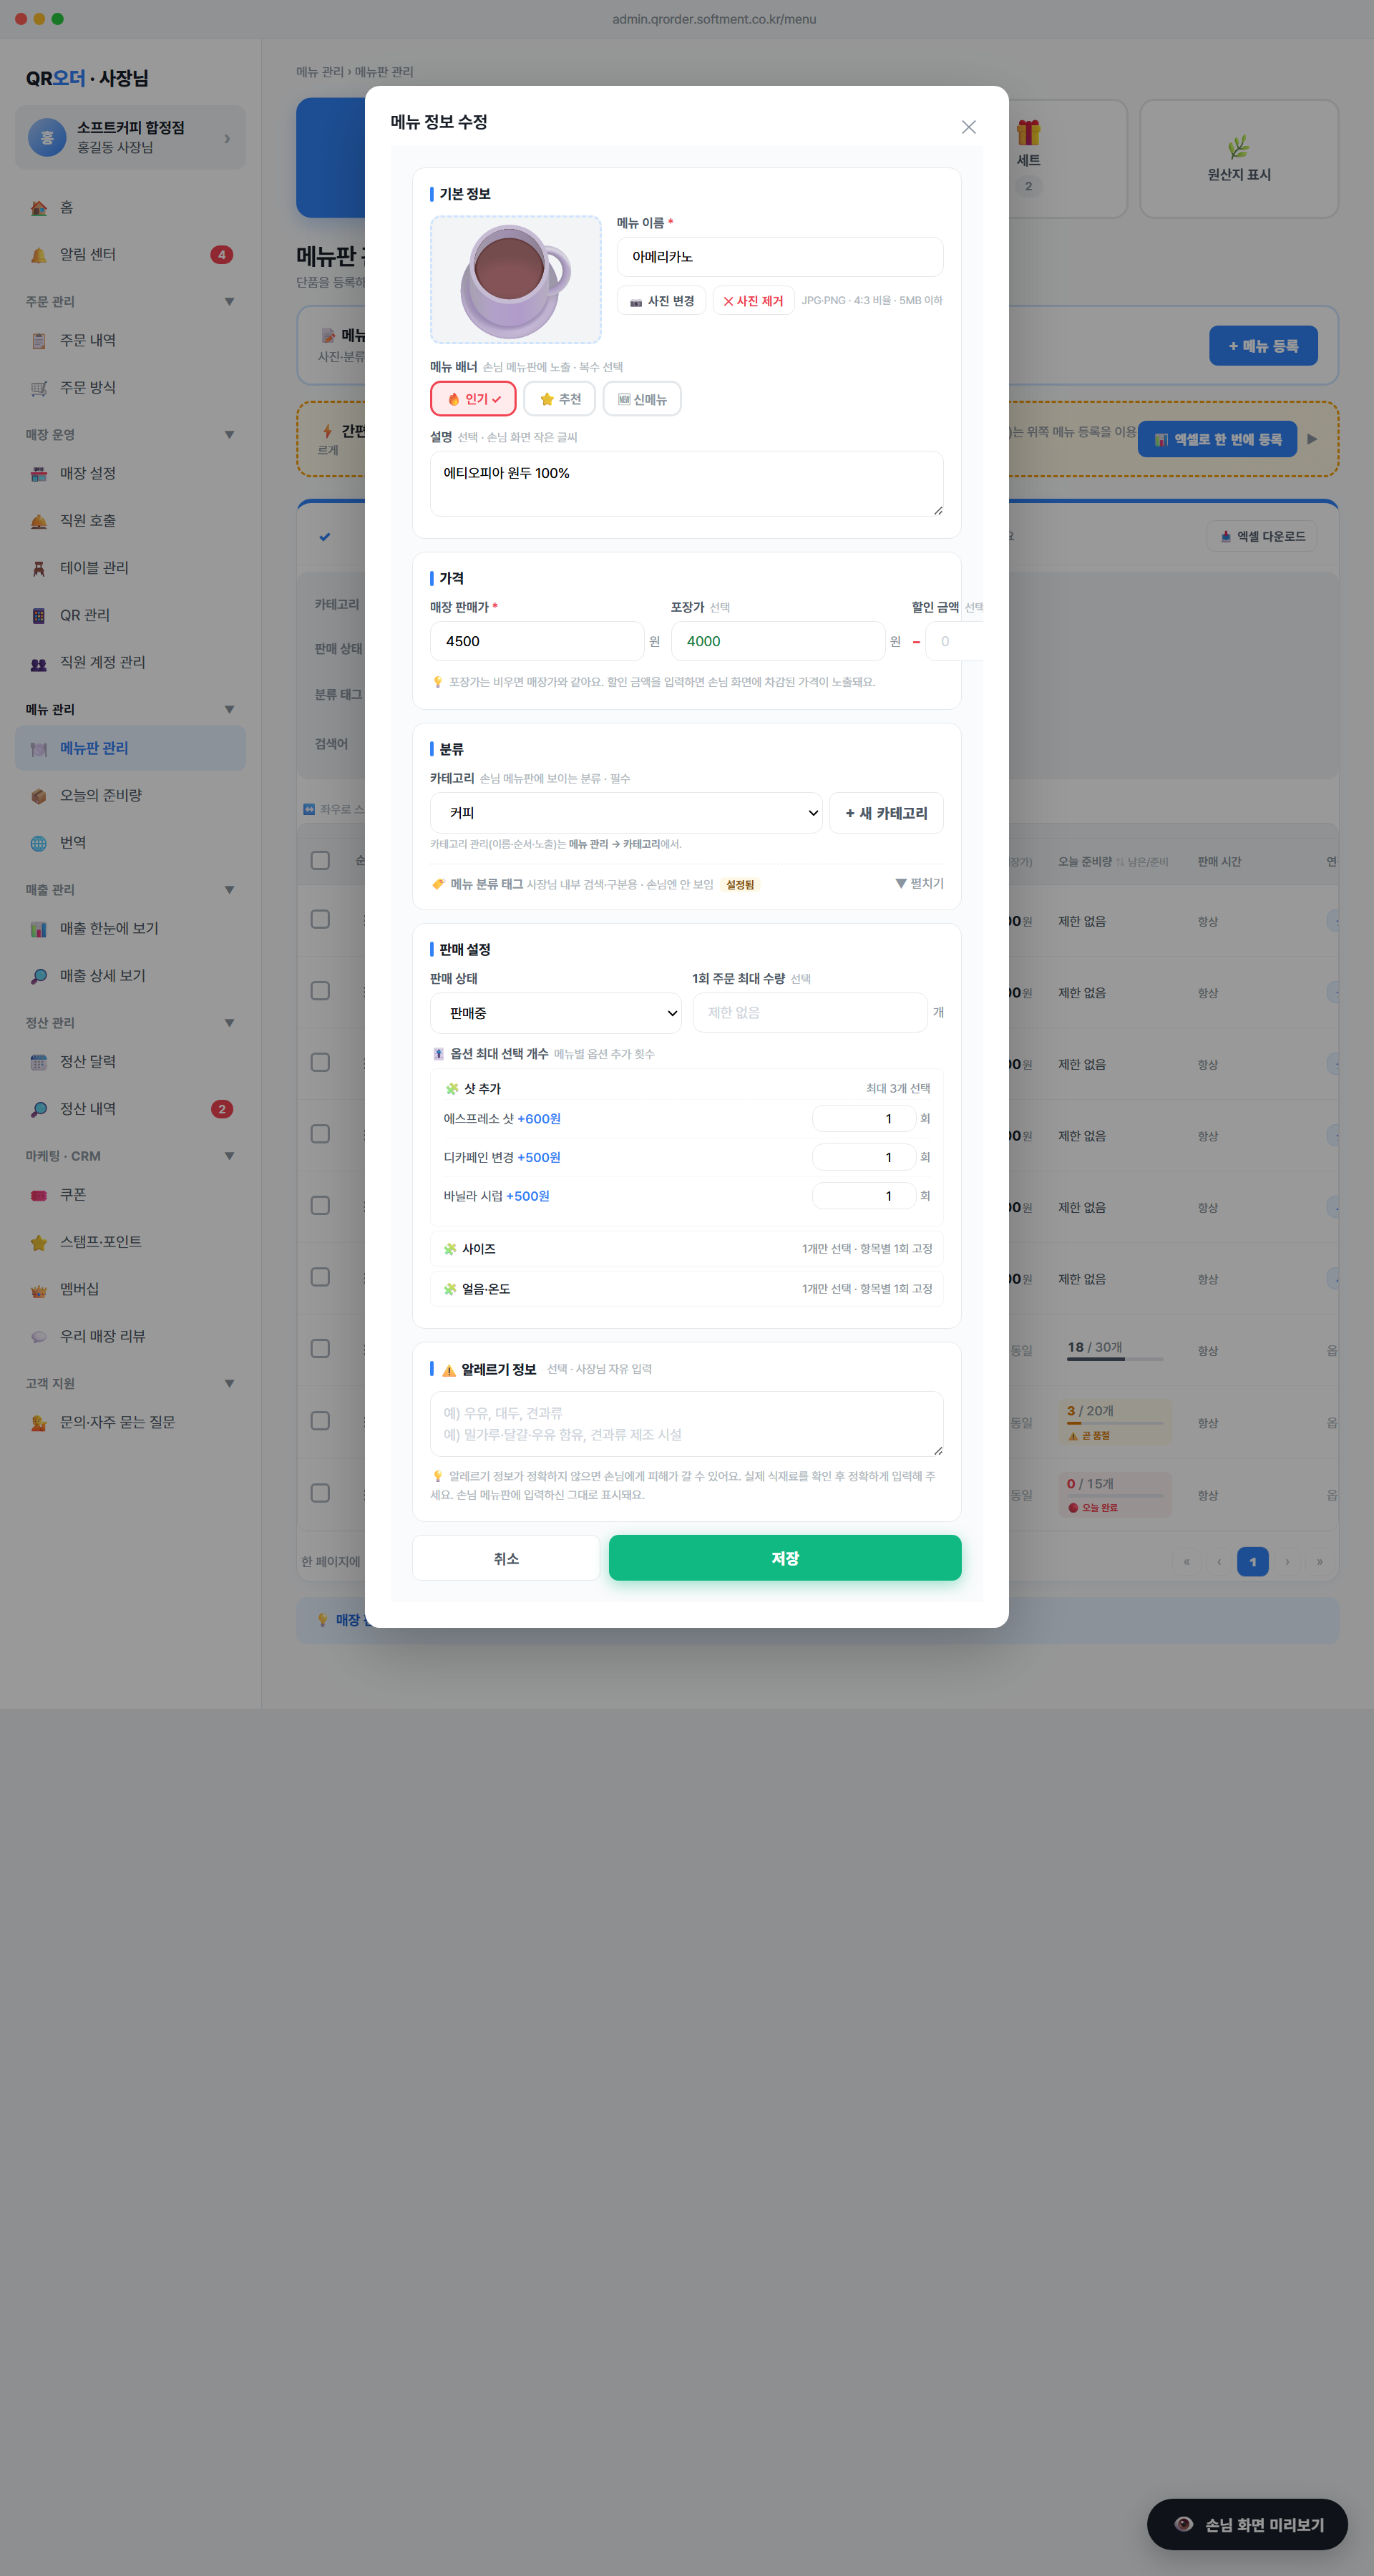
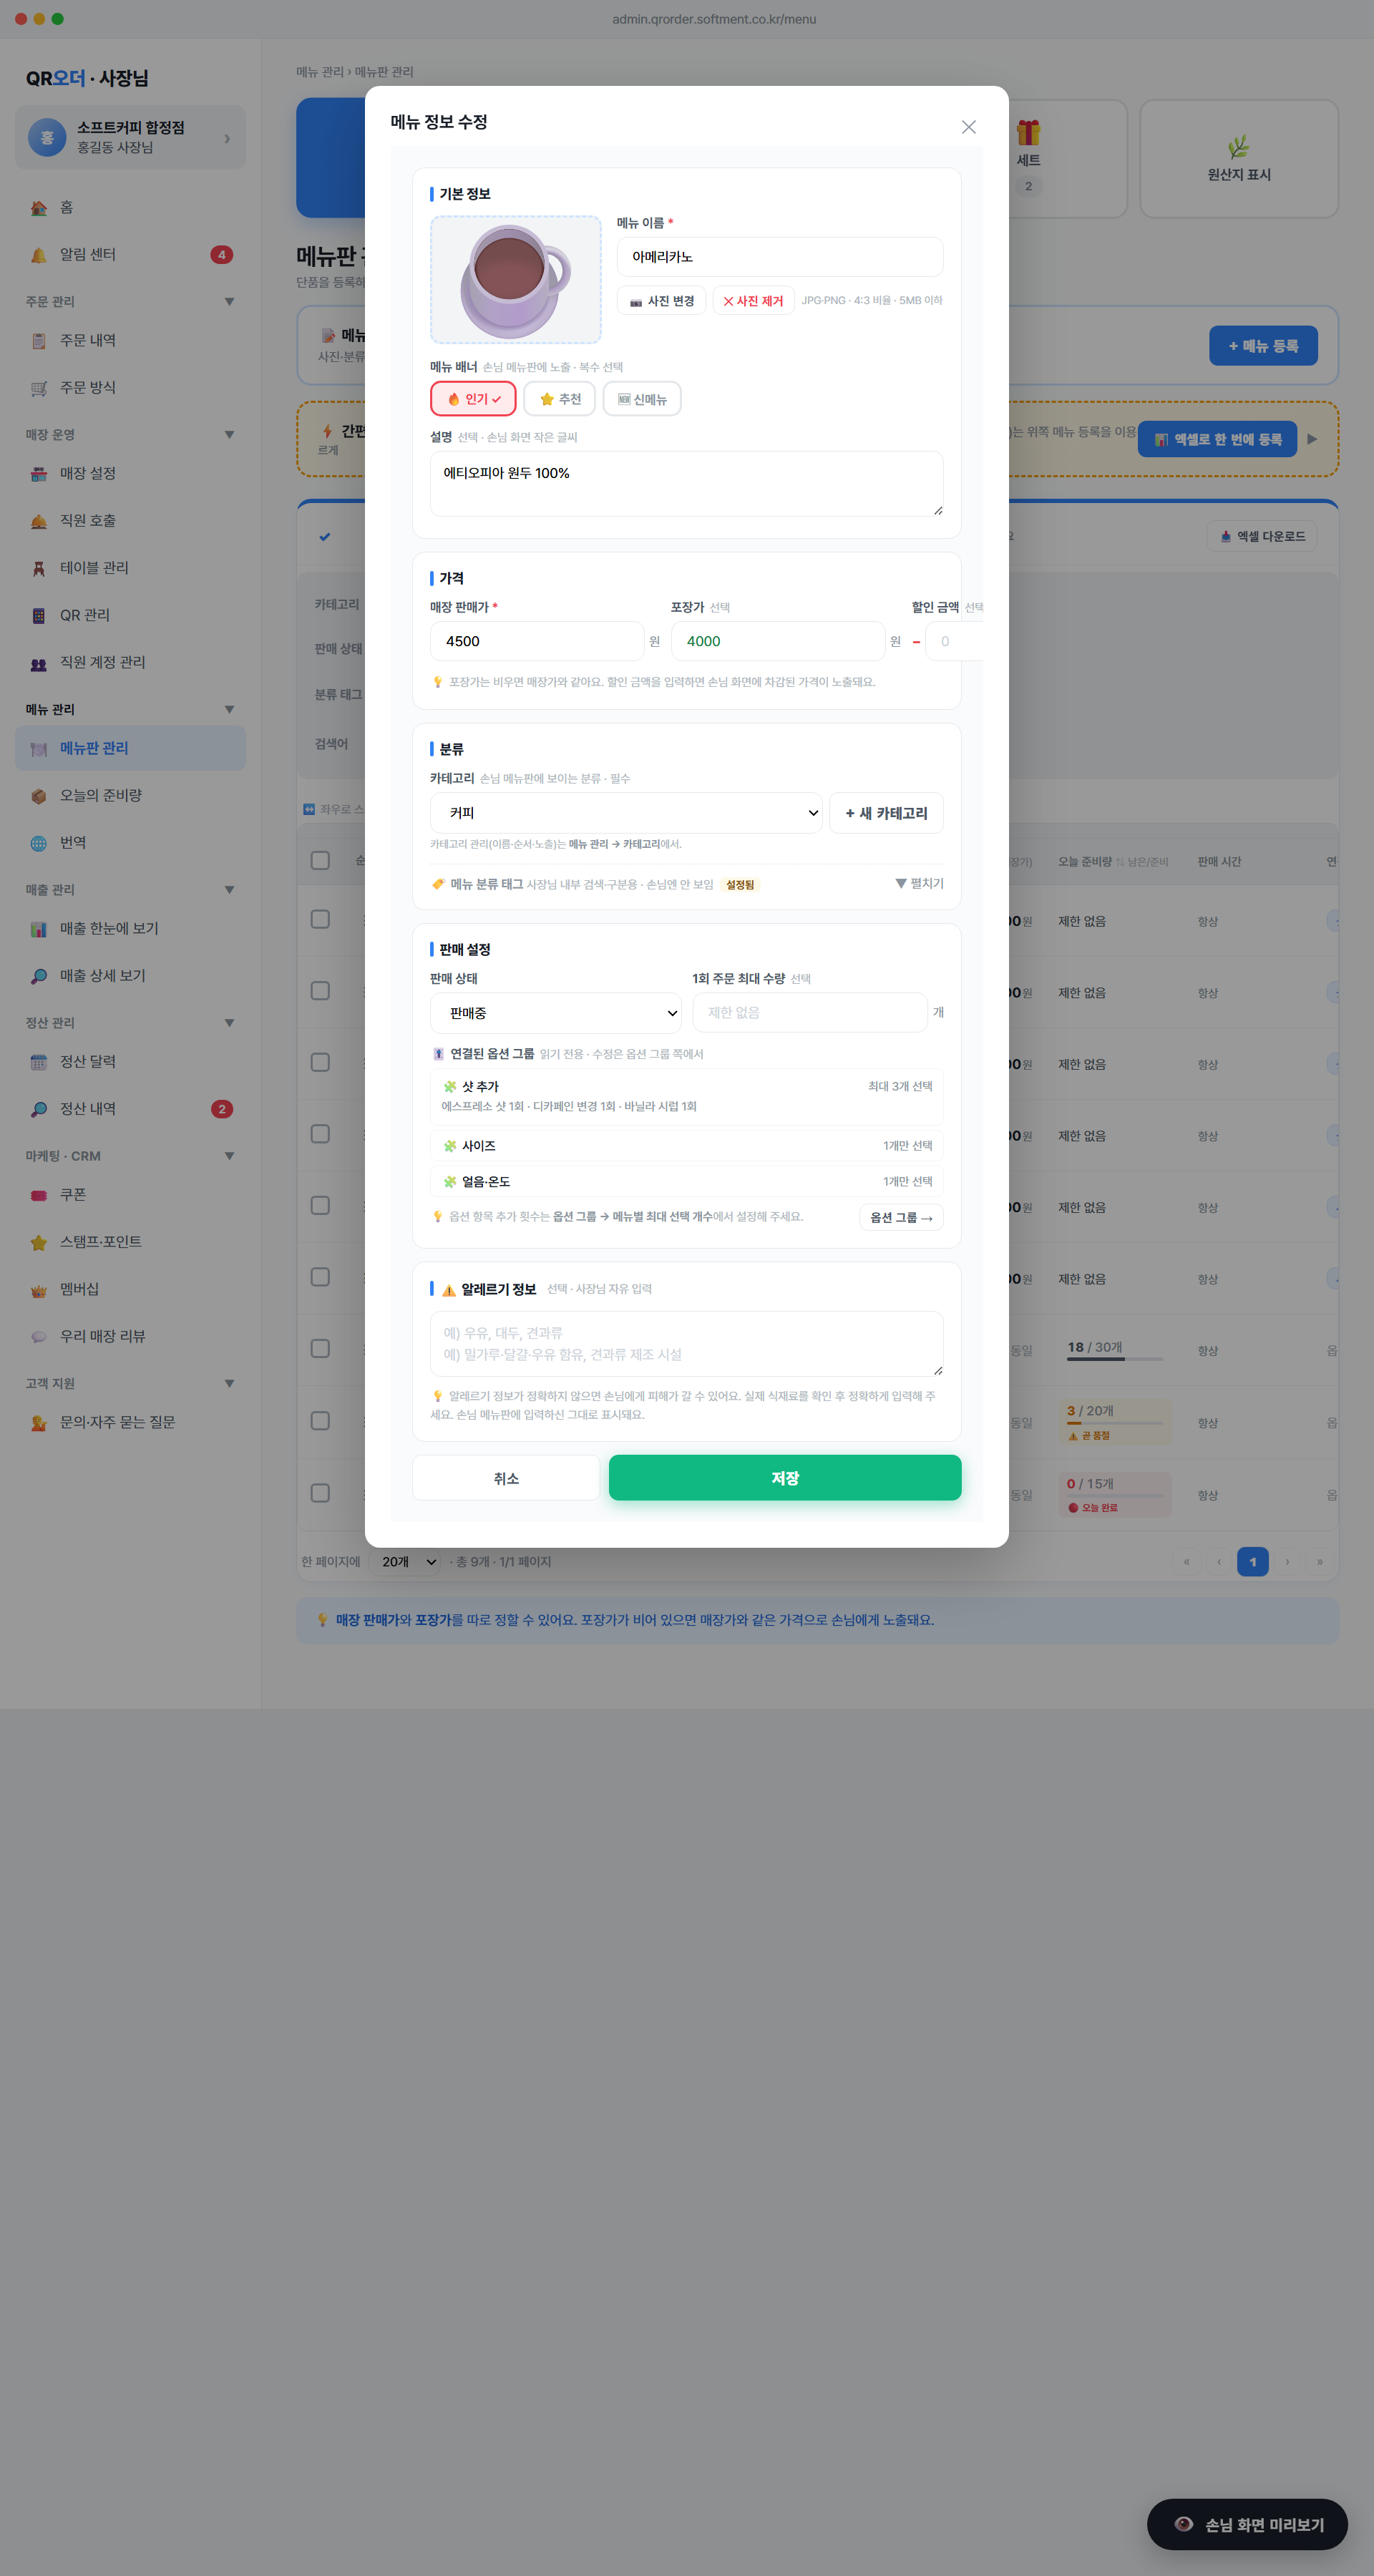
fix(admin): 옵션 항목 최대 선택 개수 — 옵션 그룹 단독 관리로 정정
- 메뉴 수정 모달의 옵션 한도 입력 영역을 '읽기 전용 요약'으로 변경
  · 그룹명 + 모드 + 항목별 횟수 1줄 텍스트 (예: '에스프레소 샷 3회 · 디카페인 변경 1회')
  · 편집은 '옵션 그룹 → 메뉴별 최대 선택 개수'로 유도 (단일 진실 공급원)
- 옵션 그룹 등록 카드 안내문 갱신 — 양방향 표현 제거
- 04 디스크립션 보드 재작성 (양방향 → 옵션 그룹 단독)
- 메뉴 모달 변경 반영 위해 01·07 캡처 재실행

설계 원칙: 옵션 항목 추가 횟수는 옵션 그룹 쪽이 단일 입력처. 같은 옵션을
여러 메뉴에 적용했을 때 메뉴별로 한도를 다르게 주는 일은 옵션 모달 한
화면에서 일괄 처리. 메뉴 모달은 현재 적용된 한도를 확인만.

Changed region(s): [[0.25, 0.4044, 0.75, 0.6533], [0.625, 0.4356, 0.6875, 0.4978]]

diff --git a/desc/recent/04-option-max-select.html b/desc/recent/04-option-max-select.html
@@ -3,7 +3,7 @@
 <head>
 <meta charset="utf-8">
 <meta name="viewport" content="width=device-width,initial-scale=1">
-<title>04 · 옵션 최대 선택 개수 (양방향) — QR오더 점주 관리자</title>
+<title>04 · 옵션 최대 선택 개수 (옵션 그룹에서 메뉴별 설정) — QR오더 점주 관리자</title>
 <link rel="preconnect" href="https://cdn.jsdelivr.net">
 <link rel="stylesheet" href="https://cdn.jsdelivr.net/gh/orioncactus/pretendard@v1.3.9/dist/web/static/pretendard.min.css">
 <link rel="stylesheet" href="board.css">
@@ -12,26 +12,25 @@
 <div class="brd">
   <a class="brd-back" href="index.html">← 목록으로</a>
   <header class="brd-head">
-    <div class="brd-cat">메뉴 관리 · 메뉴 / 옵션 그룹</div>
-    <h1 class="brd-title">04 · 옵션 최대 선택 개수 (양방향)</h1>
-    <p class="brd-sub">메뉴×옵션 그룹×항목 조합으로 「손님이 이 항목을 몇 번까지 추가할 수 있는지」를 설정. <b>메뉴 측·옵션 측 어디서나 편집</b> 가능하고 동일 데이터를 공유. (예: 「샷 추가」 — 아메리카노 3회, 디카페인 라떼 1회, 키즈 음료 0회)</p>
+    <div class="brd-cat">메뉴 관리 · 옵션 그룹</div>
+    <h1 class="brd-title">04 · 옵션 최대 선택 개수 (옵션 그룹에서 메뉴별 설정)</h1>
+    <p class="brd-sub">옵션 그룹 수정 모달의 <b>「🎚️ 메뉴별 최대 선택 개수」</b> 섹션에서 — 연결된 메뉴 카드별로 각 옵션 항목을 손님이 몇 번까지 추가할 수 있는지 설정. <b>옵션 그룹 쪽에서 단독 관리</b>(메뉴 정보 수정 모달에서는 읽기 전용 요약만).</p>
     <div class="brd-meta">
       <a href="https://jieunpark322.github.io/qrorder-mockup/" target="_blank">📍 라이브 보기</a>
-      <span class="meta-key">진입 경로 A — <b>메뉴 관리 → 메뉴판 → 메뉴 클릭 → 판매 설정 → 🎚️ 옵션 최대 선택 개수</b></span>
-      <span class="meta-key">진입 경로 B — <b>메뉴 관리 → 옵션 그룹 → ✏️ 수정 → 🎚️ 메뉴별 최대 선택 개수</b></span>
+      <span class="meta-key">진입 경로 — <b>메뉴 관리 → 옵션 그룹 → ✏️ 수정 → 🎚️ 메뉴별 최대 선택 개수</b></span>
     </div>
   </header>
 
-  <section class="brd-cap"><img src="img/03-option-edit.png" alt="화면 캡처" loading="lazy" /><div class="brd-cap-cap"><b>📷 화면 캡처</b> · 옵션 그룹 수정 모달의 「🎚️ 메뉴별 최대 선택 개수」 섹션 — 메뉴 측·옵션 측 양방향 편집</div></section>
+  <section class="brd-cap"><img src="img/03-option-edit.png" alt="화면 캡처" loading="lazy" /><div class="brd-cap-cap"><b>📷 화면 캡처</b> · 옵션 그룹 수정 모달의 「🎚️ 메뉴별 최대 선택 개수」 섹션 — 연결된 메뉴 카드별로 옵션 항목 횟수 입력</div></section>
 
   <div class="brd-diff">
     <div class="brd-diff-card before">
       <div class="brd-diff-label">변경 전</div>
-      <div class="brd-diff-body">옵션 항목은 그룹 단위로만 정의됨. 메뉴별로 「샷 추가는 아메리카노에서만 3회까지」처럼 <b>메뉴마다 다른 한도</b>를 줄 수 없었음.</div>
+      <div class="brd-diff-body">옵션 항목은 그룹 단위로만 정의돼서, 「샷 추가는 아메리카노에서만 3회까지」처럼 <b>메뉴마다 다른 한도</b>를 줄 수 없었음.</div>
     </div>
     <div class="brd-diff-card after">
       <div class="brd-diff-label">변경 후</div>
-      <div class="brd-diff-body">메뉴 측·옵션 측 두 곳에서 <b>같은 데이터를 편집</b>. 옵션 그룹은 항목 정의(이름·금액)만 담당, 「몇 번 추가 가능한지」는 메뉴 측 데이터로 분리.</div>
+      <div class="brd-diff-body">옵션 그룹 수정 모달 안에서 <b>연결된 메뉴마다</b> 각 항목 횟수 설정. 메뉴 정보 수정 모달은 읽기 전용 요약만 노출(편집 불가) — 옵션 그룹 쪽이 단일 진실 공급원.</div>
     </div>
   </div>
 
@@ -41,44 +40,45 @@
     <div class="brd-pin">
       <div class="brd-pin-head">
         <div class="brd-pin-no">1</div>
-        <div class="brd-pin-ttl">메뉴 측 진입 — 🎚️ 옵션 최대 선택 개수</div>
-        <div class="brd-pin-where">메뉴 수정 모달 · 섹션 4 (판매 설정)</div>
+        <div class="brd-pin-ttl">메뉴 카드 + 옵션 항목 횟수 input</div>
+        <div class="brd-pin-where">옵션 그룹 수정 모달 · 「🎚️ 메뉴별 최대 선택 개수」 섹션</div>
       </div>
       <div class="brd-pin-grid">
         <div class="brd-pin-col purp">
           <div class="brd-pin-cat">🎯 기능·목적</div>
           <ul>
-            <li>현재 메뉴에 <b>연결된 옵션 그룹들</b>의 각 항목 한도를 한눈에 설정</li>
-            <li>이 메뉴만의 한도를 정의 (다른 메뉴에 영향 없음)</li>
-            <li>옵션 그룹이 없으면 보라색 안내 카드 + 「옵션 그룹 →」 진입 버튼</li>
+            <li>옵션 그룹이 연결된 모든 메뉴를 한 화면에서 일괄 관리</li>
+            <li>옵션 1개를 여러 메뉴에 적용했을 때 메뉴마다 다른 한도 부여</li>
+            <li>「샷 추가」 — 아메리카노 3회 / 디카페인 라떼 1회 / 키즈 음료 0회 같은 조합</li>
           </ul>
         </div>
         <div class="brd-pin-col beha">
           <div class="brd-pin-cat">⚙️ 동작·상태값</div>
           <ul>
-            <li>연결된 옵션 그룹별로 카드 표시 (그룹명 · 모드 · 항목 리스트)</li>
-            <li>각 항목 옆에 input type=number (min=1, max=10) — <code>[N] 회까지</code></li>
-            <li>입력 변경 시 <code>setMenuOptMaxQty(groupId, itemIdx, val)</code> 호출 → <code>state._menuEdit.optMaxQty</code> 갱신</li>
-            <li>모달 저장 시 <code>m.optMaxQty</code>로 영구 반영</li>
-            <li><b>1개만 선택 모드</b>는 항목별 1회 고정 (입력 없이 안내 메시지만)</li>
+            <li>옵션 그룹의 <code>links[]</code> 에 있는 모든 메뉴를 카드로 나열</li>
+            <li>각 메뉴 카드 — 메뉴명 + 옵션 항목별 횟수 input</li>
+            <li>입력 변경 시 즉시 저장 (저장 버튼 불필요) — 옵션 그룹 모달 저장과 별개</li>
+            <li>각 메뉴 카드에 「메뉴 정보 수정 →」 진입 링크</li>
+            <li><b>1개만 선택 모드는 안내 메시지만</b> (항목별 1회 고정)</li>
           </ul>
         </div>
         <div class="brd-pin-col data">
           <div class="brd-pin-cat">🔌 데이터·연동</div>
           <ul>
-            <li><code>MENUS[id].optMaxQty: { [groupId]: { [itemIdx]: number } }</code></li>
-            <li>예) <code>{ '1': {'0':3,'1':1,'2':2} }</code> = 옵션 그룹1의 0번 항목 3회, 1번 1회, 2번 2회</li>
-            <li>옵션 그룹 정의: <code>OPT_GROUPS[id].items[itemIdx]</code> (이름·금액만, 횟수 없음)</li>
+            <li>저장 위치: <code>MENUS[menuId].optMaxQty[groupId][itemIdx]</code></li>
+            <li>구조: <code>{ groupId: { itemIdx: maxQty } }</code> · 키는 문자열</li>
+            <li>입력 함수: <code>setOptGroupMenuMaxQty(menuId, groupId, itemIdx, val)</code></li>
+            <li><code>markUnsavedUI()</code> 호출로 상단 저장 알림 표시</li>
             <li>기본값: 데이터 없으면 1회로 표시</li>
           </ul>
         </div>
         <div class="brd-pin-col exc">
           <div class="brd-pin-cat">⚠️ 예외·UX 문구</div>
           <ul>
-            <li>연결 옵션 그룹 0개 → "🧩 옵션 그룹이 연결돼 있지 않아요." + 옵션 페이지 진입 버튼</li>
-            <li>1개만 모드 — "1개만 선택 · 항목별 1회 고정" 회색 라벨</li>
-            <li>입력 범위 벗어남 → <code>Math.max(1, Math.min(10, ...))</code> 자동 보정</li>
-            <li>안내: "메뉴마다 옵션 한도를 다르게 정할 수 있어요. 예) 샷 추가 — 아메리카노 3회, 디카페인 라떼 1회, 키즈 음료 0회"</li>
+            <li>연결 메뉴 0개 — <i>"🔗 아직 이 옵션 그룹을 적용한 메뉴가 없어요."</i> 안내</li>
+            <li>1개만 모드 — <i>"🎚️ 메뉴별 최대 선택 개수 — 1개만 선택 모드라 항목별로 1회씩 고정돼요."</i></li>
+            <li>입력 범위 1~10 → 벗어나면 <code>Math.max(1, Math.min(10, ...))</code> 자동 보정</li>
+            <li>안내: <i>"같은 옵션 그룹이라도 메뉴마다 다르게 정할 수 있어요. 예) 샷 추가 — 아메리카노 3회, 디카페인 라떼 1회, 키즈 음료 0회"</i></li>
           </ul>
         </div>
       </div>
@@ -87,87 +87,44 @@
     <div class="brd-pin">
       <div class="brd-pin-head">
         <div class="brd-pin-no">2</div>
-        <div class="brd-pin-ttl">옵션 측 진입 — 🎚️ 메뉴별 최대 선택 개수</div>
-        <div class="brd-pin-where">옵션 그룹 수정 모달 · 본문 하단</div>
+        <div class="brd-pin-ttl">메뉴 수정 모달 — 읽기 전용 요약</div>
+        <div class="brd-pin-where">메뉴 수정 모달 · 섹션 4(판매 설정) 안 「🎚️ 연결된 옵션 그룹」</div>
       </div>
       <div class="brd-pin-grid">
         <div class="brd-pin-col purp">
           <div class="brd-pin-cat">🎯 기능·목적</div>
           <ul>
-            <li>현재 옵션 그룹이 연결된 <b>모든 메뉴</b>의 항목 한도를 한 화면에서 일괄 관리</li>
-            <li>옵션 1개를 N개 메뉴에 적용했을 때 한꺼번에 조정 (탭 전환 없이)</li>
-            <li>각 메뉴 카드에 「메뉴 정보 수정 →」 링크로 메뉴 모달로 빠르게 전환</li>
+            <li>이 메뉴에 어떤 옵션 그룹이 연결돼 있고 항목별 횟수가 얼마인지 한눈에 확인</li>
+            <li>편집은 옵션 그룹 쪽으로 유도 (단일 진실 공급원 유지)</li>
+            <li>잘못된 양방향 수정으로 인한 데이터 충돌 방지</li>
           </ul>
         </div>
         <div class="brd-pin-col beha">
           <div class="brd-pin-cat">⚙️ 동작·상태값</div>
           <ul>
-            <li>옵션 그룹의 <code>links[]</code>에 있는 모든 메뉴를 카드로 나열</li>
-            <li>각 메뉴 카드 — 메뉴명 + 옵션 항목별 횟수 input</li>
-            <li>입력 변경 시 <code>setOptGroupMenuMaxQty(menuId, groupId, itemIdx, val)</code> → <code>MENUS[menuId].optMaxQty</code> <b>즉시 반영</b> (저장 버튼 불필요)</li>
-            <li>1개만 모드면 카드 대신 안내 박스만</li>
+            <li>섹션 라벨: <code>🎚️ 연결된 옵션 그룹 (읽기 전용 · 수정은 옵션 그룹 쪽에서)</code></li>
+            <li>옵션 그룹별 카드 — 그룹명 + 모드 + 항목별 횟수 1줄 요약 (예: <code>에스프레소 샷 3회 · 디카페인 변경 1회</code>)</li>
+            <li>1개만 선택 모드 — 항목 요약 대신 "1개만 선택" 표시</li>
+            <li>입력 칸 없음 — 텍스트만</li>
+            <li>하단 안내 + 「옵션 그룹 →」 진입 버튼</li>
           </ul>
         </div>
         <div class="brd-pin-col data">
           <div class="brd-pin-cat">🔌 데이터·연동</div>
           <ul>
-            <li>대상 데이터: 메뉴 측과 <b>완전 동일</b> — <code>MENUS[menuId].optMaxQty[groupId][itemIdx]</code></li>
-            <li>입력 함수: <code>setOptGroupMenuMaxQty(menuId, groupId, itemIdx, val)</code></li>
-            <li><code>ensureMenuExtras(m)</code> 호출로 옛 메뉴 데이터 자동 초기화</li>
-            <li><code>markUnsavedUI()</code> 호출로 상단 저장 알림 표시</li>
+            <li>읽기 대상: <code>MENUS[id].optMaxQty[groupId][itemIdx]</code></li>
+            <li>표시 형식: <code>${item.name} ${qty}회</code> 을 점(·) 구분자로 연결</li>
+            <li>편집 함수 없음 (setMenuOptMaxQty 미사용)</li>
+            <li>옵션 그룹 진입 — <code>closeModal();setSection('option');</code></li>
           </ul>
         </div>
         <div class="brd-pin-col exc">
           <div class="brd-pin-cat">⚠️ 예외·UX 문구</div>
           <ul>
-            <li>연결 메뉴 0개 — "🔗 아직 이 옵션 그룹을 적용한 메뉴가 없어요." 안내</li>
-            <li>1개만 모드 — "🎚️ 메뉴별 최대 선택 개수 — 1개만 선택 모드라 항목별로 1회씩 고정돼요."</li>
-            <li>「메뉴 정보 수정 →」 클릭 — 옵션 모달 닫고 메뉴 모달 열기</li>
-            <li>안내: "같은 옵션 그룹이라도 메뉴마다 다르게 정할 수 있어요."</li>
-          </ul>
-        </div>
-      </div>
-    </div>
-
-    <div class="brd-pin">
-      <div class="brd-pin-head">
-        <div class="brd-pin-no">3</div>
-        <div class="brd-pin-ttl">양방향 데이터 일관성</div>
-        <div class="brd-pin-where">메뉴 측 입력 ↔ 옵션 측 입력 동기화</div>
-      </div>
-      <div class="brd-pin-grid">
-        <div class="brd-pin-col purp">
-          <div class="brd-pin-cat">🎯 기능·목적</div>
-          <ul>
-            <li>옵션 측에서 바꿔도 → 메뉴 측 표시값 자동 동일</li>
-            <li>메뉴 측에서 바꿔도 → 옵션 측 표시값 자동 동일</li>
-            <li>한 데이터 = 한 진실 원칙 (Single Source of Truth)</li>
-          </ul>
-        </div>
-        <div class="brd-pin-col beha">
-          <div class="brd-pin-cat">⚙️ 동작·상태값</div>
-          <ul>
-            <li>옵션 측: <code>MENUS[menuId].optMaxQty</code> <b>즉시 갱신</b> (저장 버튼 없음)</li>
-            <li>메뉴 측: <code>state._menuEdit.optMaxQty</code> 임시 → <b>저장 시</b> <code>MENUS</code> 반영</li>
-            <li>모달을 새로 열 때마다 <code>ensureMenuExtras</code>로 최신 데이터 로드</li>
-          </ul>
-        </div>
-        <div class="brd-pin-col data">
-          <div class="brd-pin-cat">🔌 데이터·연동</div>
-          <ul>
-            <li>저장 위치 (단일): <code>MENUS[menuId].optMaxQty</code></li>
-            <li>읽기 위치: 메뉴 모달·옵션 모달·손님 화면 모두 같은 필드 참조</li>
-            <li>구조: <code>{ groupId: { itemIdx: maxQty } }</code></li>
-            <li>키는 항상 문자열 (<code>String(groupId)</code>)</li>
-          </ul>
-        </div>
-        <div class="brd-pin-col exc">
-          <div class="brd-pin-cat">⚠️ 예외·UX 문구</div>
-          <ul>
-            <li>메뉴 모달에서 옵션 측을 통해 값이 바뀌어도 — 메뉴 모달 다시 열면 동일 값 표시</li>
-            <li>옵션 측 변경은 즉시 반영 — 메뉴 모달에서 「변경하지 않음」 의도 없음 가정</li>
-            <li>메뉴 모달은 「취소」 시 변경 사항 폐기 (옵션 측에서 바꾼 값은 이미 저장됨)</li>
-            <li>안내: "메뉴 정보 수정과 같은 데이터" 명시</li>
+            <li>옵션 그룹 미연결 — 보라색 안내 + 옵션 그룹 페이지 진입</li>
+            <li>안내: <i>"💡 옵션 항목 추가 횟수는 옵션 그룹 → 메뉴별 최대 선택 개수에서 설정해 주세요."</i></li>
+            <li>옵션 그룹에서 값을 바꾸면 다음에 이 메뉴 모달을 열 때 갱신된 요약이 보임</li>
+            <li>「옵션 그룹 →」 클릭 시 메뉴 모달 자동 닫힘</li>
           </ul>
         </div>
       </div>
@@ -175,7 +132,7 @@
   </section>
 
   <div class="brd-note">
-    <b>설계 결정</b> — 옵션 측은 <b>즉시 저장</b>(메뉴 측 데이터 직접 수정)으로 가는 게 「양방향 편집」의 본래 의도에 부합해요. 두 곳에서 「저장」 버튼이 따로 있으면 같은 값을 두 번 저장해야 하는 혼란이 생깁니다. 메뉴 모달의 「취소」는 메뉴 자체 속성(이름·가격 등)에만 적용되고, 옵션 측에서 이미 즉시 저장된 한도는 유지돼요.
+    <b>설계 원칙</b> — 옵션 항목 추가 횟수는 「옵션 그룹 ↔ 메뉴」 다대다 관계 위에 얹히는 보조 데이터예요. 양쪽에서 편집 가능하면 어디서 바꾼 값이 진실인지 혼란이 생기니, <b>옵션 그룹 쪽을 단일 입력처</b>로 고정하고 메뉴 쪽은 읽기 전용 요약만 노출합니다. 같은 옵션 그룹을 여러 메뉴에 적용했을 때 메뉴마다 한도를 다르게 주는 일은 옵션 모달에서 한 화면에 묶어 일괄로 처리하는 편이 효율적이에요.
   </div>
 </div>
 </body>

diff --git a/index.html b/index.html
@@ -7662,7 +7662,7 @@ function renderOption(main){
           ${c.items.length===0 ? `<div style="padding:14px 4px;text-align:center;color:var(--ink-3);font-size:12px;">옵션 항목을 추가해 주세요.</div>` : itemsHtml}
           <button class="ocr-item-add" onclick="state.optBulkCards[${ci}].items.push({name:'',price:0});renderApp()">+ 옵션 항목 추가</button>
         </div>
-        <div style="font-size:11px;color:var(--ink-4);margin-top:6px;line-height:1.55;">💡 옵션 그룹은 <b>항목 이름·금액 정의만</b> 담당해요. 손님이 이 항목을 몇 번까지 추가할 수 있는지는 <b style="color:var(--ink-3);">메뉴 정보 수정 → 옵션 최대 선택 개수</b>에서, 또는 <b style="color:var(--ink-3);">옵션 그룹 수정 → 메뉴별 최대 선택 개수</b>에서 양쪽 어디서나 설정할 수 있어요.</div>
+        <div style="font-size:11px;color:var(--ink-4);margin-top:6px;line-height:1.55;">💡 옵션 그룹은 <b>항목 이름·금액 정의만</b> 담당해요. 손님이 이 항목을 몇 번까지 추가할 수 있는지는 등록 후 <b style="color:var(--ink-3);">옵션 그룹 ✏️ 수정 → 메뉴별 최대 선택 개수</b>에서 메뉴마다 설정해 주세요.</div>
       </div>
     `;
   }).join('');
@@ -9131,7 +9131,7 @@ function renderMenuEditModal(){
             </div>
           </div>
 
-          <!-- 옵션 최대 선택 개수 -->
+          <!-- 옵션 최대 선택 개수 — 읽기 전용 요약 (편집은 옵션 그룹 쪽에서) -->
           ${(()=>{
             const linkedGroups = (typeof OPT_GROUPS!=='undefined' ? OPT_GROUPS : []).filter(g=>g.links && g.links.includes(f.id));
             if(linkedGroups.length===0) return `
@@ -9140,45 +9140,35 @@ function renderMenuEditModal(){
                 <button class="btn-ghost" style="padding:4px 10px;font-size:11px;font-weight:700;flex-shrink:0;color:#6b3eaa;border-color:#c4a5ff;" onclick="closeModal();setSection('option');">옵션 그룹 →</button>
               </div>
             `;
-            if(!f.optMaxQty) f.optMaxQty = {};
-            const groupsHtml = linkedGroups.map(g=>{
+            const summaryHtml = linkedGroups.map(g=>{
               const isMulti = g.mode==='여러 개';
               if(!isMulti){
-                return `
-                  <div style="padding:8px 10px;background:#fff;border:1px solid var(--line-2);border-radius:6px;margin-bottom:4px;display:flex;justify-content:space-between;align-items:center;">
-                    <span style="font-size:12px;font-weight:600;">🧩 ${g.name}</span>
-                    <span style="font-size:11px;color:var(--ink-3);">1개만 선택 · 항목별 1회 고정</span>
-                  </div>
-                `;
+                return `<div style="padding:6px 10px;background:#fff;border:1px solid var(--line-2);border-radius:6px;margin-bottom:4px;display:flex;justify-content:space-between;align-items:center;">
+                  <span style="font-size:12px;font-weight:600;">🧩 ${g.name}</span>
+                  <span style="font-size:11px;color:var(--ink-3);">1개만 선택</span>
+                </div>`;
               }
-              const itemsRows = g.items.map((it, ii)=>{
-                const overrideKey = `${g.id}`;
-                const cur = (f.optMaxQty[overrideKey] && f.optMaxQty[overrideKey][ii] != null)
-                  ? f.optMaxQty[overrideKey][ii] : 1;
-                return `
-                  <div style="display:grid;grid-template-columns:1fr 110px;gap:8px;align-items:center;padding:5px 0;border-top:1px dashed var(--line-2);">
-                    <span style="font-size:12px;color:var(--ink-2);">${it.name}${it.price>0?` <span style="color:var(--blue);font-weight:600;">+${fmt(it.price)}원</span>`:''}</span>
-                    <div style="display:flex;align-items:center;gap:3px;">
-                      <input class="input" type="number" min="1" max="10" value="${cur}" oninput="setMenuOptMaxQty(${g.id},${ii},this.value)" style="text-align:right;flex:1;padding:5px 8px;font-size:12px;" />
-                      <span style="font-size:11px;color:var(--ink-3);flex-shrink:0;">회</span>
-                    </div>
-                  </div>
-                `;
-              }).join('');
-              return `
-                <div style="padding:10px 12px;background:#fff;border:1px solid var(--line-2);border-radius:6px;margin-bottom:4px;">
-                  <div style="display:flex;justify-content:space-between;align-items:center;margin-bottom:2px;">
-                    <span style="font-size:12px;font-weight:600;">🧩 ${g.name}</span>
-                    <span style="font-size:11px;color:var(--ink-3);">최대 ${g.maxSelect||2}개 선택</span>
-                  </div>
-                  ${itemsRows}
+              const itemsText = g.items.map((it, ii)=>{
+                const cur = (f.optMaxQty && f.optMaxQty[`${g.id}`] && f.optMaxQty[`${g.id}`][ii] != null)
+                  ? f.optMaxQty[`${g.id}`][ii] : 1;
+                return `${it.name} ${cur}회`;
+              }).join(' · ');
+              return `<div style="padding:8px 10px;background:#fff;border:1px solid var(--line-2);border-radius:6px;margin-bottom:4px;">
+                <div style="display:flex;justify-content:space-between;align-items:center;margin-bottom:3px;">
+                  <span style="font-size:12px;font-weight:600;">🧩 ${g.name}</span>
+                  <span style="font-size:11px;color:var(--ink-3);">최대 ${g.maxSelect||2}개 선택</span>
                 </div>
-              `;
+                <div style="font-size:11px;color:var(--ink-3);line-height:1.55;">${itemsText}</div>
+              </div>`;
             }).join('');
             return `
               <div style="margin-top:6px;">
-                <label class="me-lbl">🎚️ 옵션 최대 선택 개수 <span class="me-lbl-sub">메뉴별 옵션 추가 횟수</span></label>
-                ${groupsHtml}
+                <label class="me-lbl">🎚️ 연결된 옵션 그룹 <span class="me-lbl-sub">읽기 전용 · 수정은 옵션 그룹 쪽에서</span></label>
+                ${summaryHtml}
+                <div style="font-size:11px;color:var(--ink-4);margin-top:6px;line-height:1.55;display:flex;justify-content:space-between;align-items:center;gap:8px;">
+                  <span>💡 옵션 항목 추가 횟수는 <b style="color:var(--ink-3);">옵션 그룹 → 메뉴별 최대 선택 개수</b>에서 설정해 주세요.</span>
+                  <button class="btn-ghost" style="padding:4px 10px;font-size:11px;font-weight:700;flex-shrink:0;" onclick="closeModal();setSection('option');">옵션 그룹 →</button>
+                </div>
               </div>
             `;
           })()}